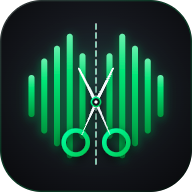
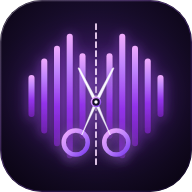
feat: update theme to purple color palette and bump cache version to v53

diff --git a/index.html b/index.html
@@ -15,14 +15,14 @@
   <meta name="apple-mobile-web-app-capable" content="yes">
   <meta name="apple-mobile-web-app-status-bar-style" content="black-translucent">
   <meta name="apple-mobile-web-app-title" content="MP3 Splitter">
-  <link rel="apple-touch-icon" href="./icons/icon-192.png?v=52">
+  <link rel="apple-touch-icon" href="./icons/icon-192.png?v=53">
 
   <!-- Favicons -->
-  <link rel="icon" type="image/svg+xml" href="./icons/favicon.svg?v=52">
-  <link rel="icon" type="image/png" href="./icons/favicon.png?v=52">
+  <link rel="icon" type="image/svg+xml" href="./icons/favicon.svg?v=53">
+  <link rel="icon" type="image/png" href="./icons/favicon.png?v=53">
 
   <!-- Versioned Stylesheet adhering to pwa-standards.md -->
-  <link rel="stylesheet" href="./styles.css?v=52">
+  <link rel="stylesheet" href="./styles.css?v=53">
 </head>
 <body>
 
@@ -838,6 +838,6 @@
   </div>
 
   <!-- Application Logic with Cache-Busting adhering to pwa-standards.md -->
-  <script defer src="./app.js?v=52"></script>
+  <script defer src="./app.js?v=53"></script>
 </body>
 </html>

diff --git a/sw.js b/sw.js
@@ -3,20 +3,20 @@
  * Adheres strictly to PWA Standards & WebAPK Isolation Rules
  */
 
-const CACHE_NAME = 'mp3-splitter-v52';
+const CACHE_NAME = 'mp3-splitter-v53';
 
 const PRECACHE_ASSETS = [
   './',
-  './index.html?v=52',
-  './styles.css?v=52',
-  './app.js?v=52',
-  './mp3-worker.js?v=52',
-  './manifest.webmanifest?v=52',
-  './icons/icon-192.png?v=52',
-  './icons/icon-512.png?v=52',
-  './icons/icon-maskable-512.png?v=52',
-  './icons/favicon.svg?v=52',
-  './icons/favicon.png?v=52',
+  './index.html?v=53',
+  './styles.css?v=53',
+  './app.js?v=53',
+  './mp3-worker.js?v=53',
+  './manifest.webmanifest?v=53',
+  './icons/icon-192.png?v=53',
+  './icons/icon-512.png?v=53',
+  './icons/icon-maskable-512.png?v=53',
+  './icons/favicon.svg?v=53',
+  './icons/favicon.png?v=53',
   './icons/icon-192.png',
   './icons/icon-512.png',
   './icons/icon-maskable-512.png',

diff --git a/styles.css b/styles.css
@@ -162,9 +162,9 @@ body {
   display: flex;
   align-items: center;
   justify-content: center;
-  background-color: var(--md-sys-color-primary);
-  color: var(--md-sys-color-on-primary);
-  box-shadow: var(--elevation-1);
+  background: linear-gradient(135deg, #C084FC 0%, #9333EA 50%, #6B21A8 100%);
+  color: #FFFFFF;
+  box-shadow: 0 4px 14px rgba(147, 51, 234, 0.4);
 }
 
 .app-title {
